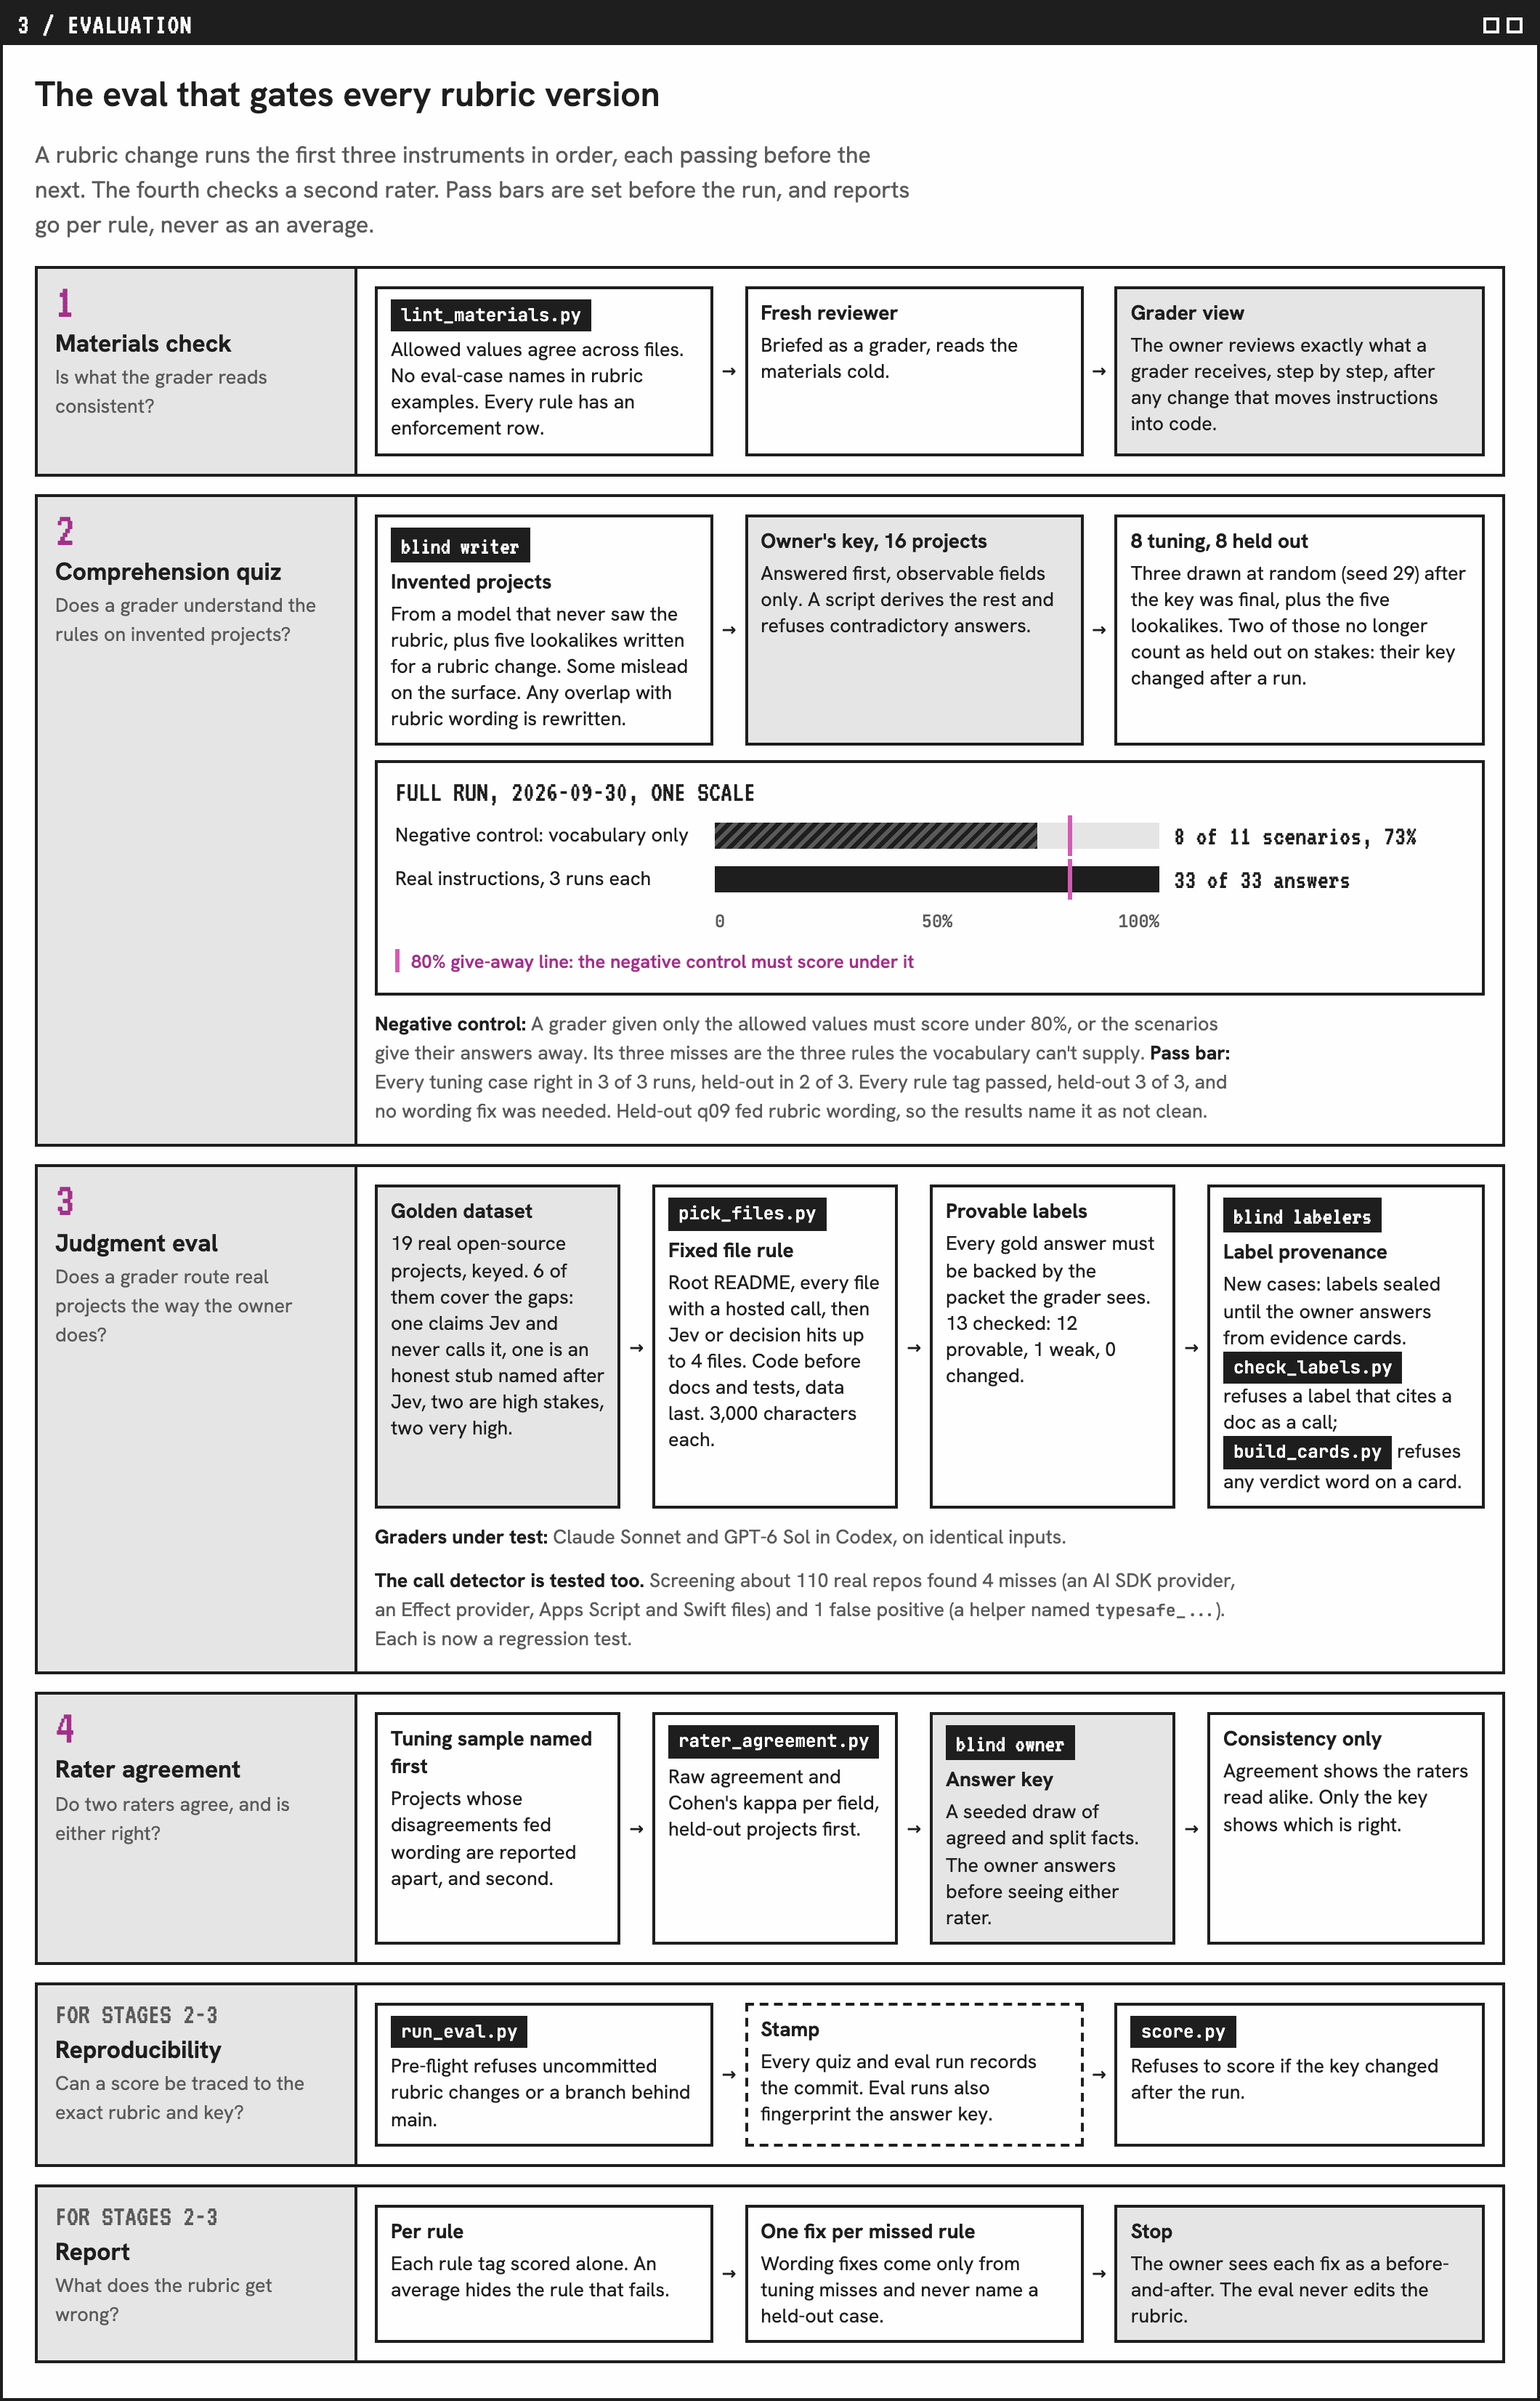
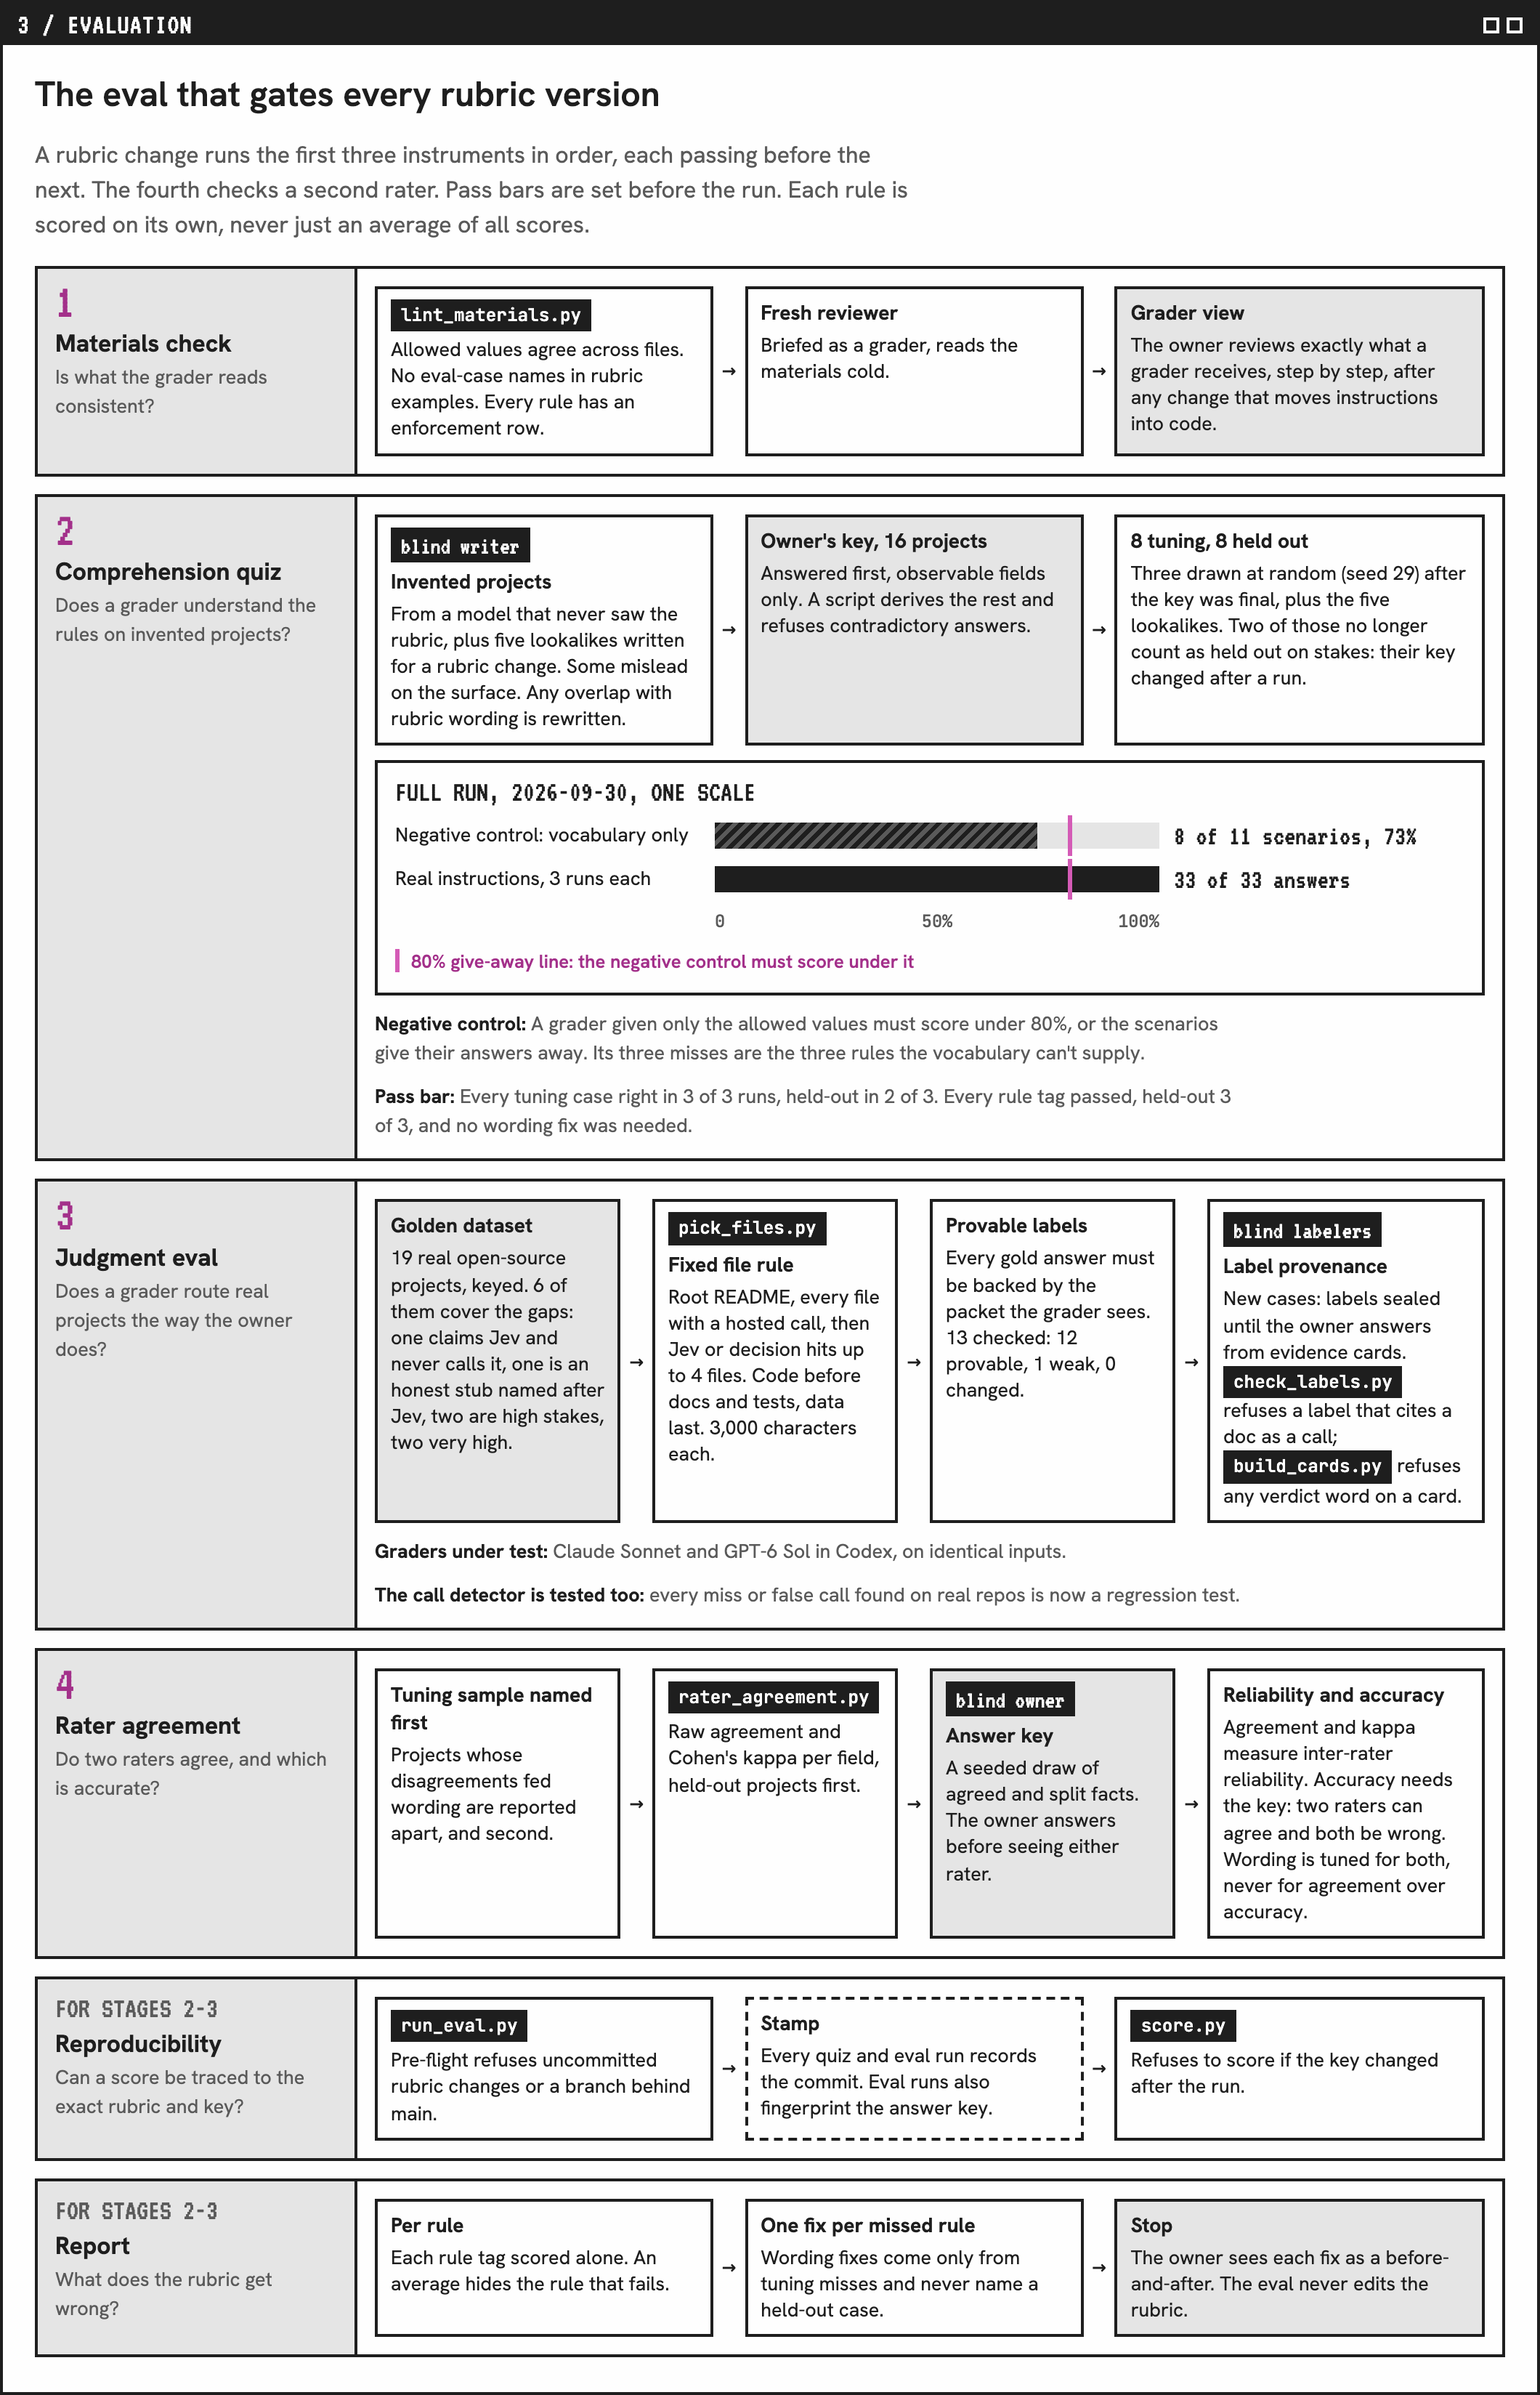
Eval diagram: per-rule scoring in plain words, pass bar on its own line, reliability and accuracy for rater agreement

diff --git a/system/index.html b/system/index.html
@@ -503,7 +503,7 @@ footer.foot { font-family: var(--mono); font-size: .72rem; color: var(--dim); te
   <div class="bar"><span>3 / EVALUATION</span><span class="dots" aria-hidden="true"><i></i><i></i></span></div>
   <div class="pad">
     <h2 id="d3-h">The eval that gates every rubric version</h2>
-    <p class="lead">A rubric change runs the first three instruments in order, each passing before the next. The fourth checks a second rater. Pass bars are set before the run, and reports go per rule, never as an average.</p>
+    <p class="lead">A rubric change runs the first three instruments in order, each passing before the next. The fourth checks a second rater. Pass bars are set before the run. Each rule is scored on its own, never just an average of all scores.</p>
 
     <ol class="stages">
       <li class="stage">
@@ -530,7 +530,8 @@ footer.foot { font-family: var(--mono); font-size: .72rem; color: var(--dim); te
             <div class="axis"><span></span><div class="sc"><span style="left:0">0</span><span style="left:50%">50%</span><span style="left:100%">100%</span></div><span></span></div>
             <p class="thl"><i></i>80% give-away line: the negative control must score under it</p>
           </div>
-          <p class="note"><b>Negative control:</b> A grader given only the allowed values must score under 80%, or the scenarios give their answers away. Its three misses are the three rules the vocabulary can't supply. <b>Pass bar:</b> Every tuning case right in 3 of 3 runs, held-out in 2 of 3. Every rule tag passed, held-out 3 of 3, and no wording fix was needed. Held-out q09 fed rubric wording, so the results name it as not clean.</p>
+          <p class="note"><b>Negative control:</b> A grader given only the allowed values must score under 80%, or the scenarios give their answers away. Its three misses are the three rules the vocabulary can't supply.</p>
+          <p class="note"><b>Pass bar:</b> Every tuning case right in 3 of 3 runs, held-out in 2 of 3. Every rule tag passed, held-out 3 of 3, and no wording fix was needed.</p>
         </div>
       </li>
 
@@ -544,17 +545,17 @@ footer.foot { font-family: var(--mono); font-size: .72rem; color: var(--dim); te
             <li><div class="cell"><span class="tag blind">blind labelers</span><b>Label provenance</b><span>New cases: labels sealed until the owner answers from evidence cards. <span class="scr">check_labels.py</span> refuses a label that cites a doc as a call; <span class="scr">build_cards.py</span> refuses any verdict word on a card.</span></div></li>
           </ol>
           <p class="note"><b>Graders under test:</b> Claude Sonnet and GPT-6 Sol in Codex, on identical inputs.</p>
-          <p class="note"><b>The call detector is tested too.</b> Screening about 110 real repos found 4 misses (an AI SDK provider, an Effect provider, Apps Script and Swift files) and 1 false positive (a helper named <code>typesafe_...</code>). Each is now a regression test.</p>
+          <p class="note"><b>The call detector is tested too:</b> every miss or false call found on real repos is now a regression test.</p>
         </div>
       </li>
 
       <li class="stage">
-        <header><span class="n">4</span><h3>Rater agreement</h3><p>Do two raters agree, and is either right?</p></header>
+        <header><span class="n">4</span><h3>Rater agreement</h3><p>Do two raters agree, and which is accurate?</p></header>
         <div class="body"><ol class="chain">
           <li><div class="cell"><b>Tuning sample named first</b><span>Projects whose disagreements fed wording are reported apart, and second.</span></div></li>
           <li><div class="cell"><span class="scr">rater_agreement.py</span><span>Raw agreement and Cohen's kappa per field, held-out projects first.</span></div></li>
           <li><div class="cell pk"><span class="tag blind">blind owner</span><b>Answer key</b><span>A seeded draw of agreed and split facts. The owner answers before seeing either rater.</span></div></li>
-          <li><div class="cell"><b>Consistency only</b><span>Agreement shows the raters read alike. Only the key shows which is right.</span></div></li>
+          <li><div class="cell"><b>Reliability and accuracy</b><span>Agreement and kappa measure inter-rater reliability. Accuracy needs the key: two raters can agree and both be wrong. Wording is tuned for both, never for agreement over accuracy.</span></div></li>
         </ol></div>
       </li>
 
